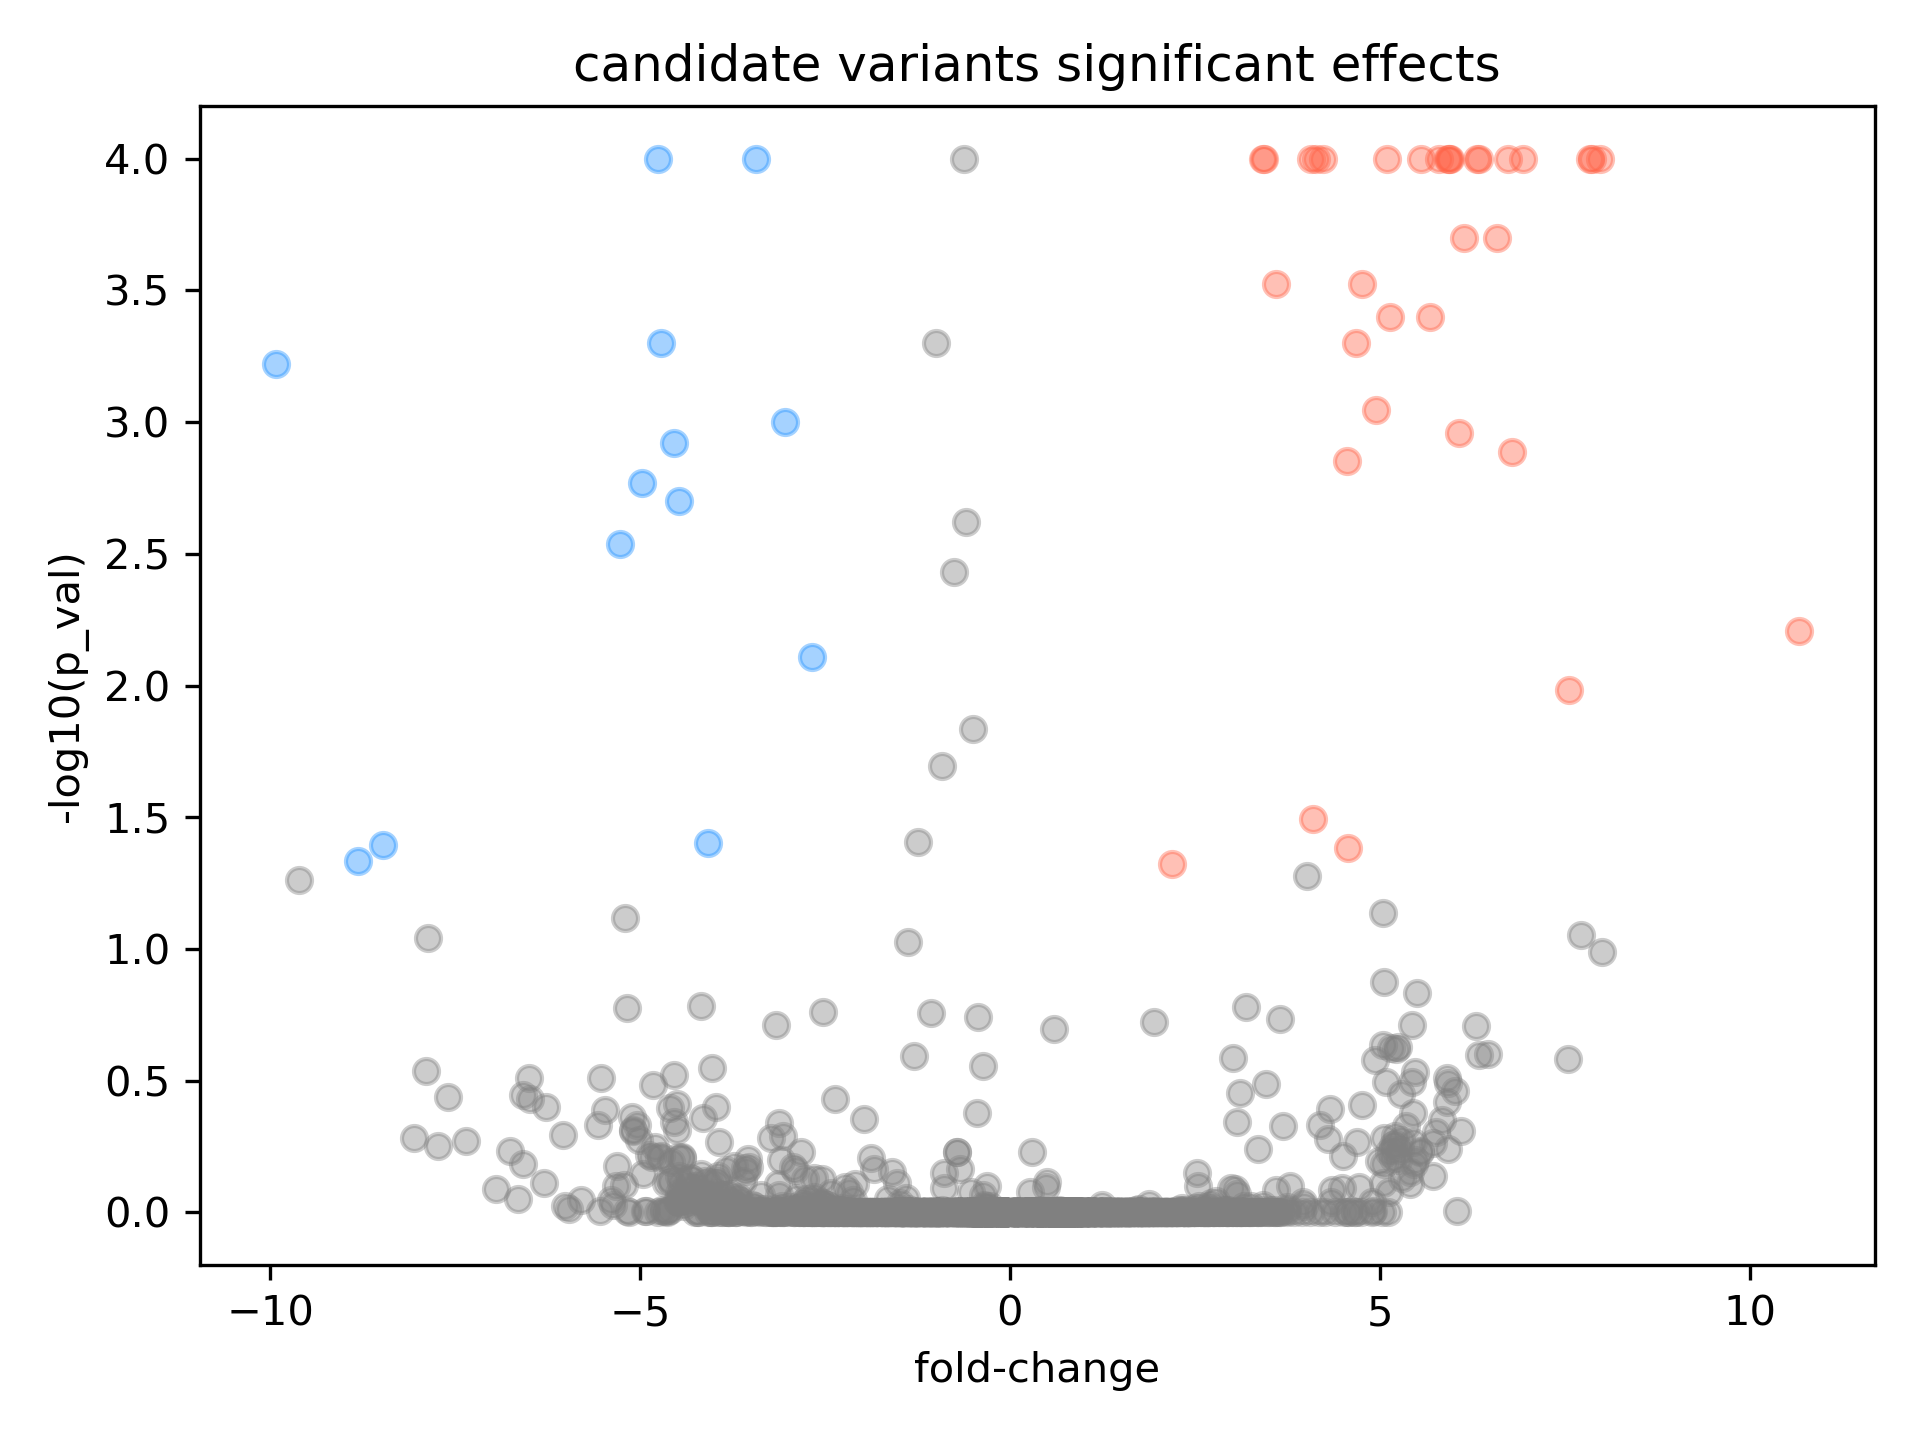
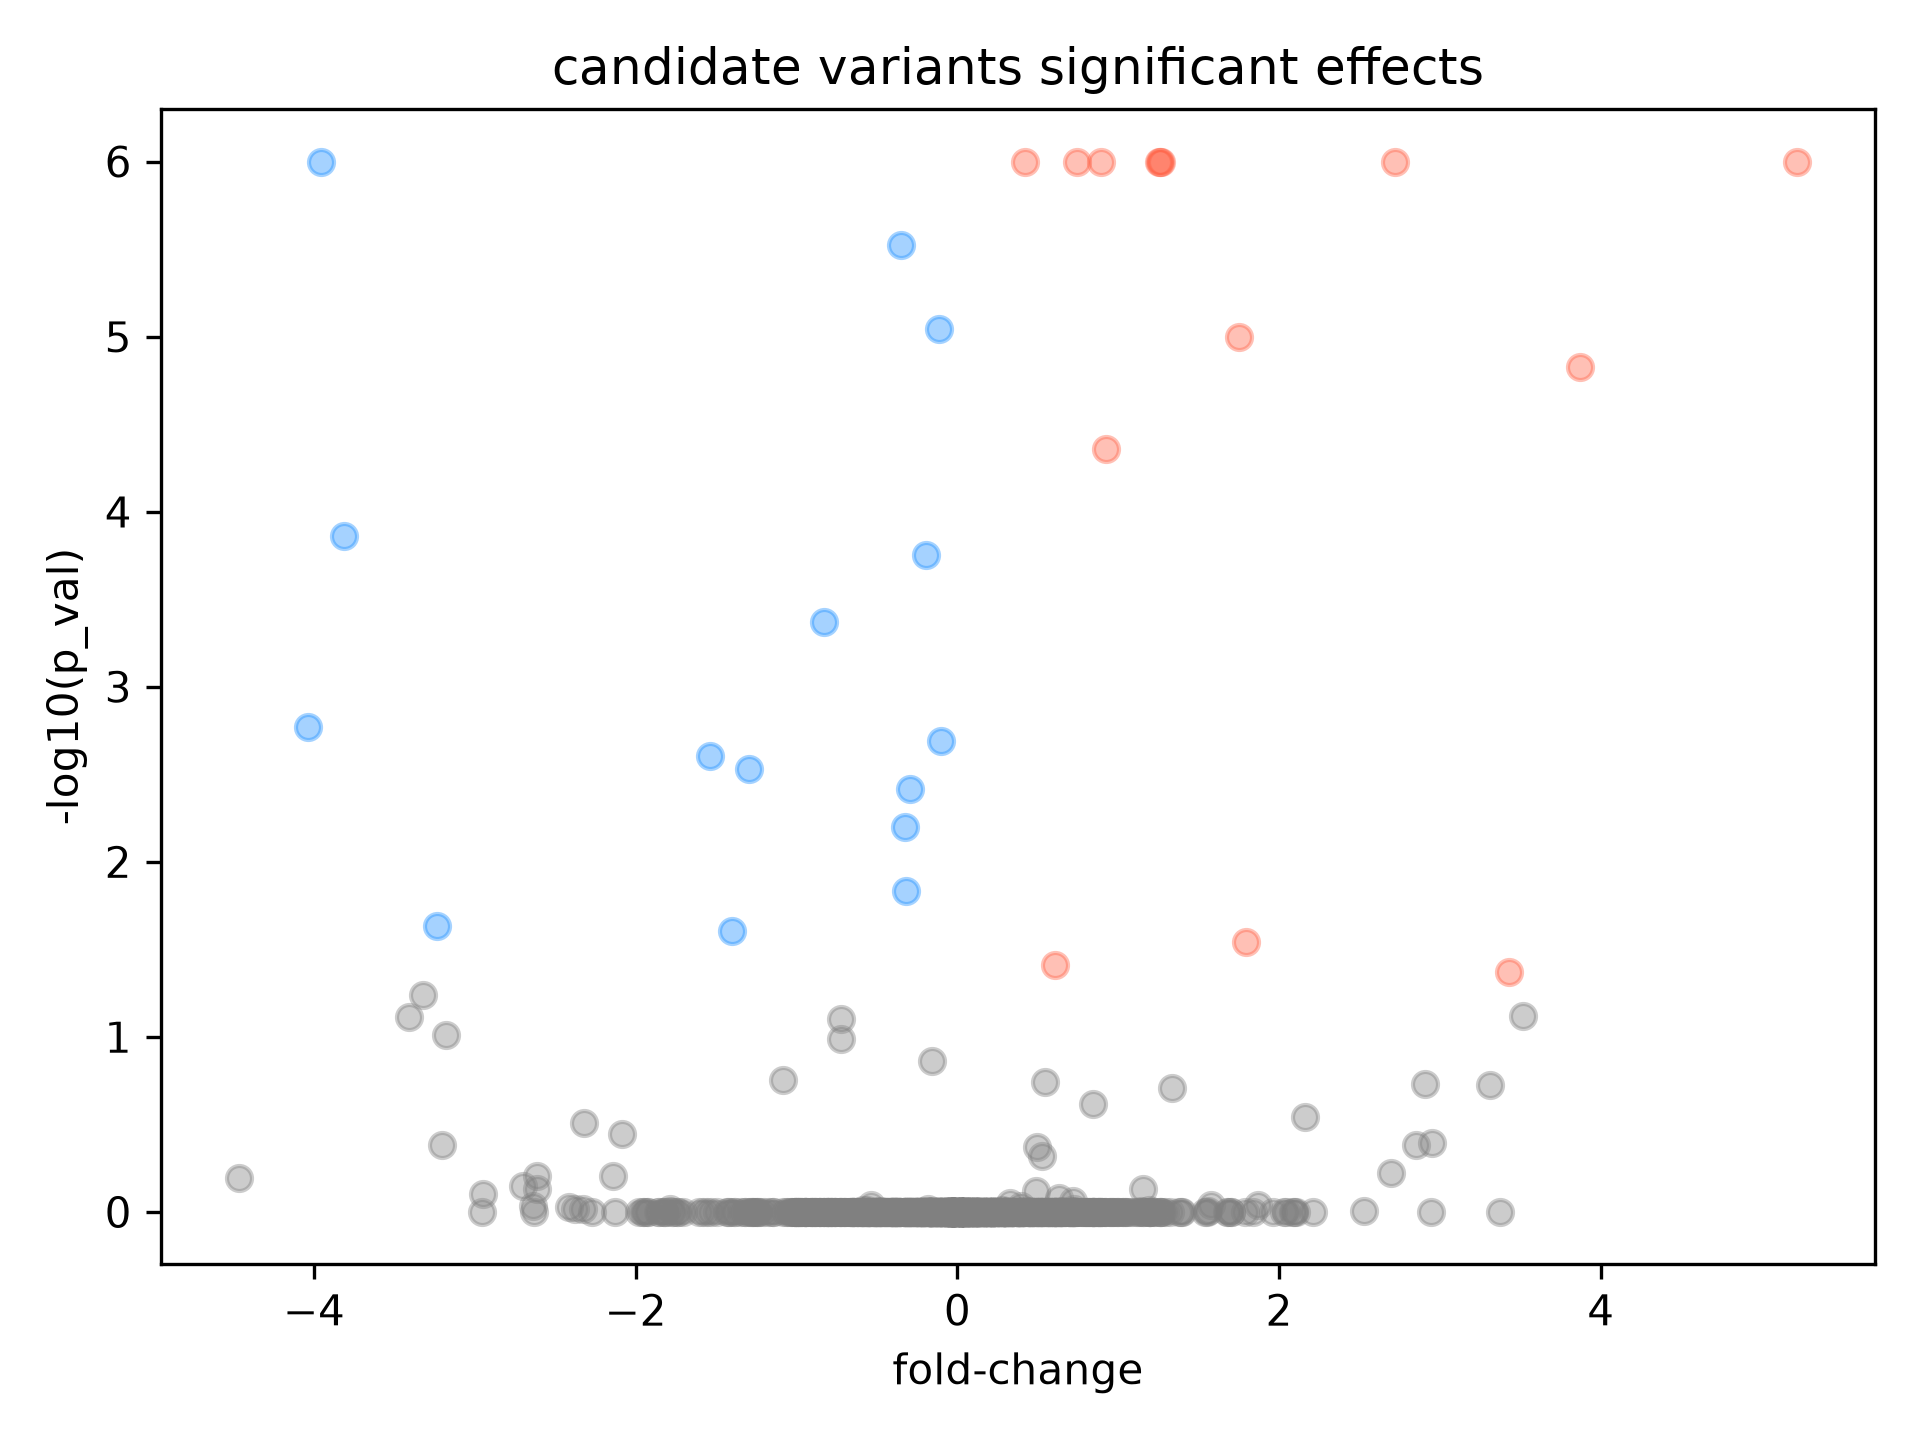
some final changes to the readme display figures

diff --git a/README.md b/README.md
@@ -1,7 +1,7 @@
 🧬DNACipher
 ==================
 ## Prediction of genomic measurements from DNA sequence in observed and unobserved cell types and assays
-<img src="https://github.com/BradBalderson/DNACipher/blob/main/img/dnacipher_logo.png" alt="DNACipher Example" width="600">
+<img src="https://github.com/BradBalderson/DNACipher/blob/main/img/dnacipher_tracks.png" alt="DNACipher Example" width="600">
 
 **DNACipher is a DNA sequence deep learning model that also includes cell type and assay information on the model input.**
 
@@ -28,11 +28,11 @@ with the commandline interface.
 
 * Tutorial 1: DNACipher inference of genetic variant effects 
 https://colab.research.google.com/gist/BradBalderson/c4389baa0d789314259b8479cfd35747/dnacipher_inference_local.ipynb
-<img src="https://github.com/BradBalderson/DNACipher/blob/main/img/dnacipher_tutorial1_figure.png" alt="DNACipher Tut1" width="1000">
+<img src="https://github.com/BradBalderson/DNACipher/blob/main/img/WRN_eQTL_signals_plot.png" alt="DNACipher Tut1" width="1000">
 
 * Tutorial 2: Deep Variant Impact Mapping (DVIM) with DNACipher to infer common and rare genetic variants with significant effects at GWAS loci:
 https://colab.research.google.com/drive/17GiWLt_SigpVa6hl6A9yP_edM4IcQeEy?usp=sharing
-<img src="https://github.com/BradBalderson/DNACipher/blob/main/img/dnacipher_DVIM_example.png" alt="DNACipher Tut2" width="1000">
+<img src="https://github.com/BradBalderson/DNACipher/blob/main/img/runx3_dvim.png" alt="DNACipher Tut2" width="1000">
 
  2.0 Tutorials -🖥Command-line Interface
 -------
@@ -647,12 +647,13 @@ Can now-replot the variant stats, this time with the n_sig_effects to show the i
 We need to specify the column that has the chromosome information to enable plotting the gene annotations.
 
 By default, the below will plot the results for the first GWAS locus. To plot the results for others, specify the
-'-locus_index'.
+'-locus_index'. NOTE however that the p-values shown are corrected for MHT within the locus, but not between loci,
+to tell if a locus has any common or rare imVars, checked the 
 
 ```bash
 dnacipher plot-variant-stats ${out_prefix} ${out_prefix}selected_gwas_stats.reformatted.chr_named.seq_pos.impact_calls.txt n_sig_effects var_label base_pair_location -gtf gencode.v26.annotation.gtf -chrom_col chromosome
 ```  
-<img src="https://github.com/BradBalderson/DNACipher/blob/main/img/dvim_runx324970252n_sig_effects_var_label_variant_stats.png" alt="DVIM RUNX3 locus" width="500">
+<img src="https://github.com/BradBalderson/DNACipher/blob/main/img/dvim_runx3_24970252_n_sig_effects_var_label_variant_stats.png" alt="DVIM RUNX3 locus" width="500">
 
 Also volcano plots to assess the cutoffs used to call the impact variants:
 
@@ -662,7 +663,7 @@ dnacipher plot-volcano ${out_prefix} candidate ${runx3_stats} ${out_prefix}_sig_
 <img src="https://github.com/BradBalderson/DNACipher/blob/main/img/dvim_runx3_candidate_volcano.png" alt="DVIM RUNX3 locus" width="500">
 
 ```bash
-dnacipher plot-volcano ${out_prefix} rare ${runx3_stats} ${out_prefix}sig_effects.txt ${out_prefix}fold_changes.txt ${runx3_pvals} 
+dnacipher plot-volcano ${out_prefix} rare ${runx3_stats} ${out_prefix}_sig_effects.txt ${out_prefix}_fold_changes.txt ${out_prefix}_boot_pvals.txt
 ```  
 <img src="https://github.com/BradBalderson/DNACipher/blob/main/img/dvim_runx3_rare_volcano.png" alt="DVIM RUNX3 locus" width="500">
 
